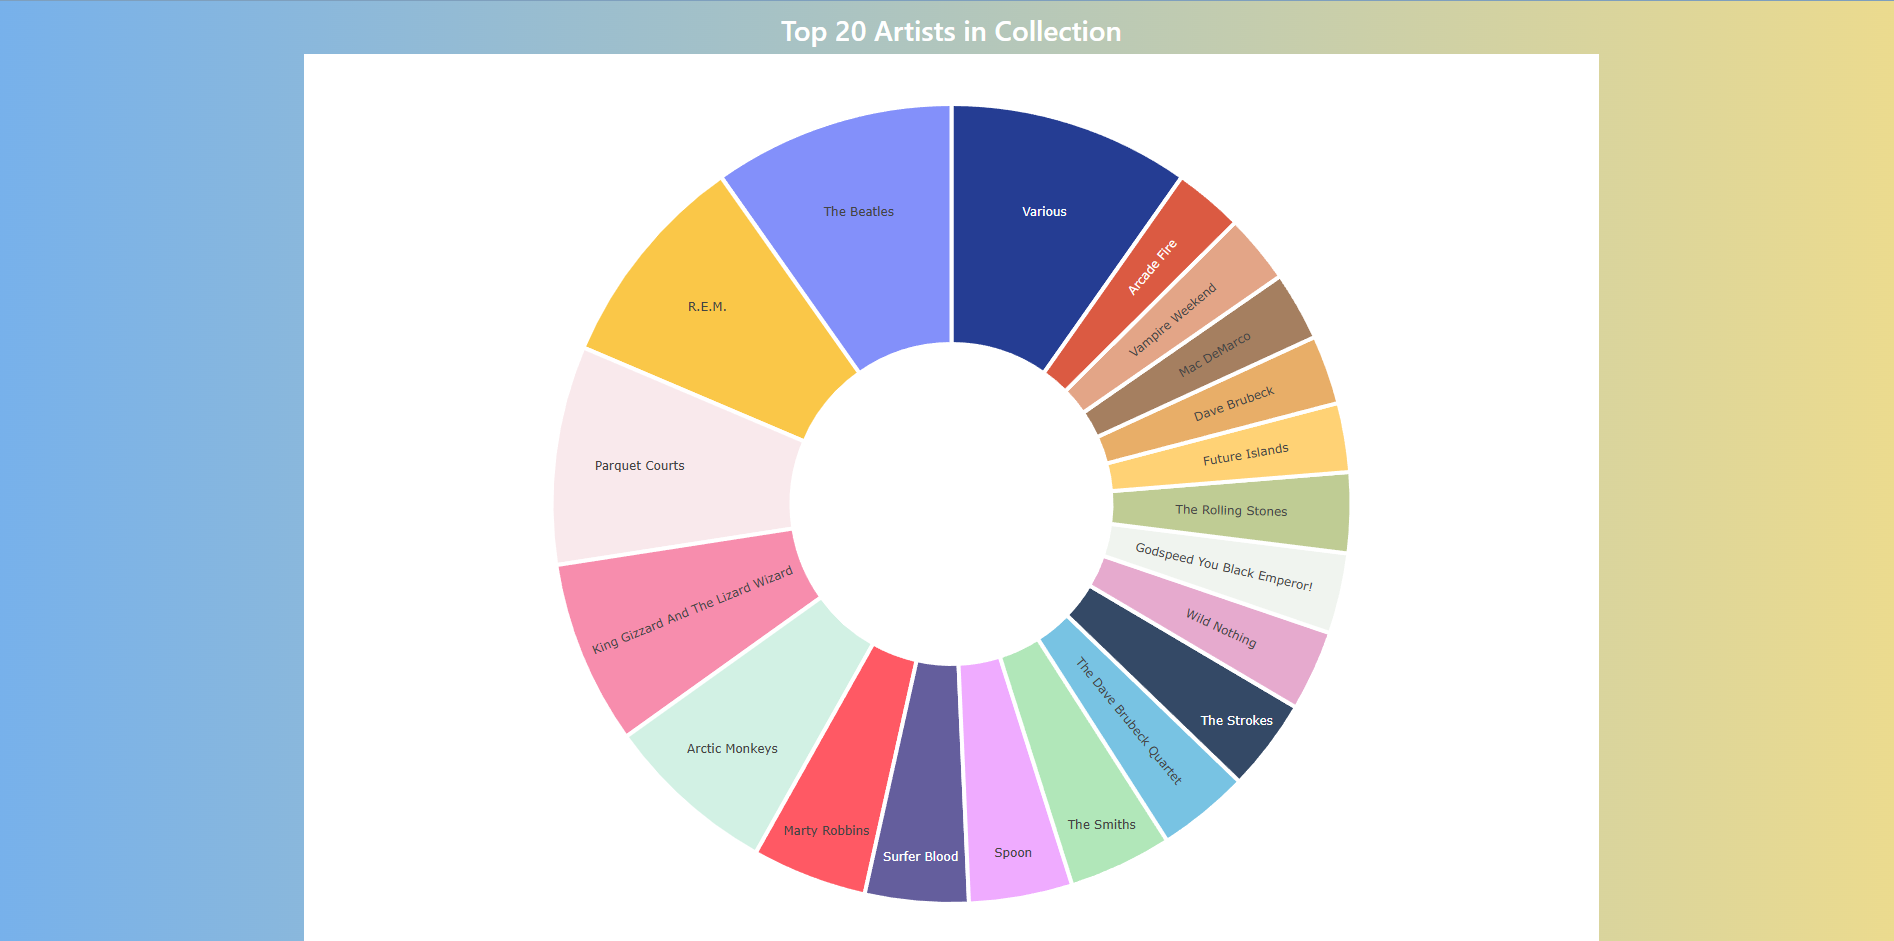
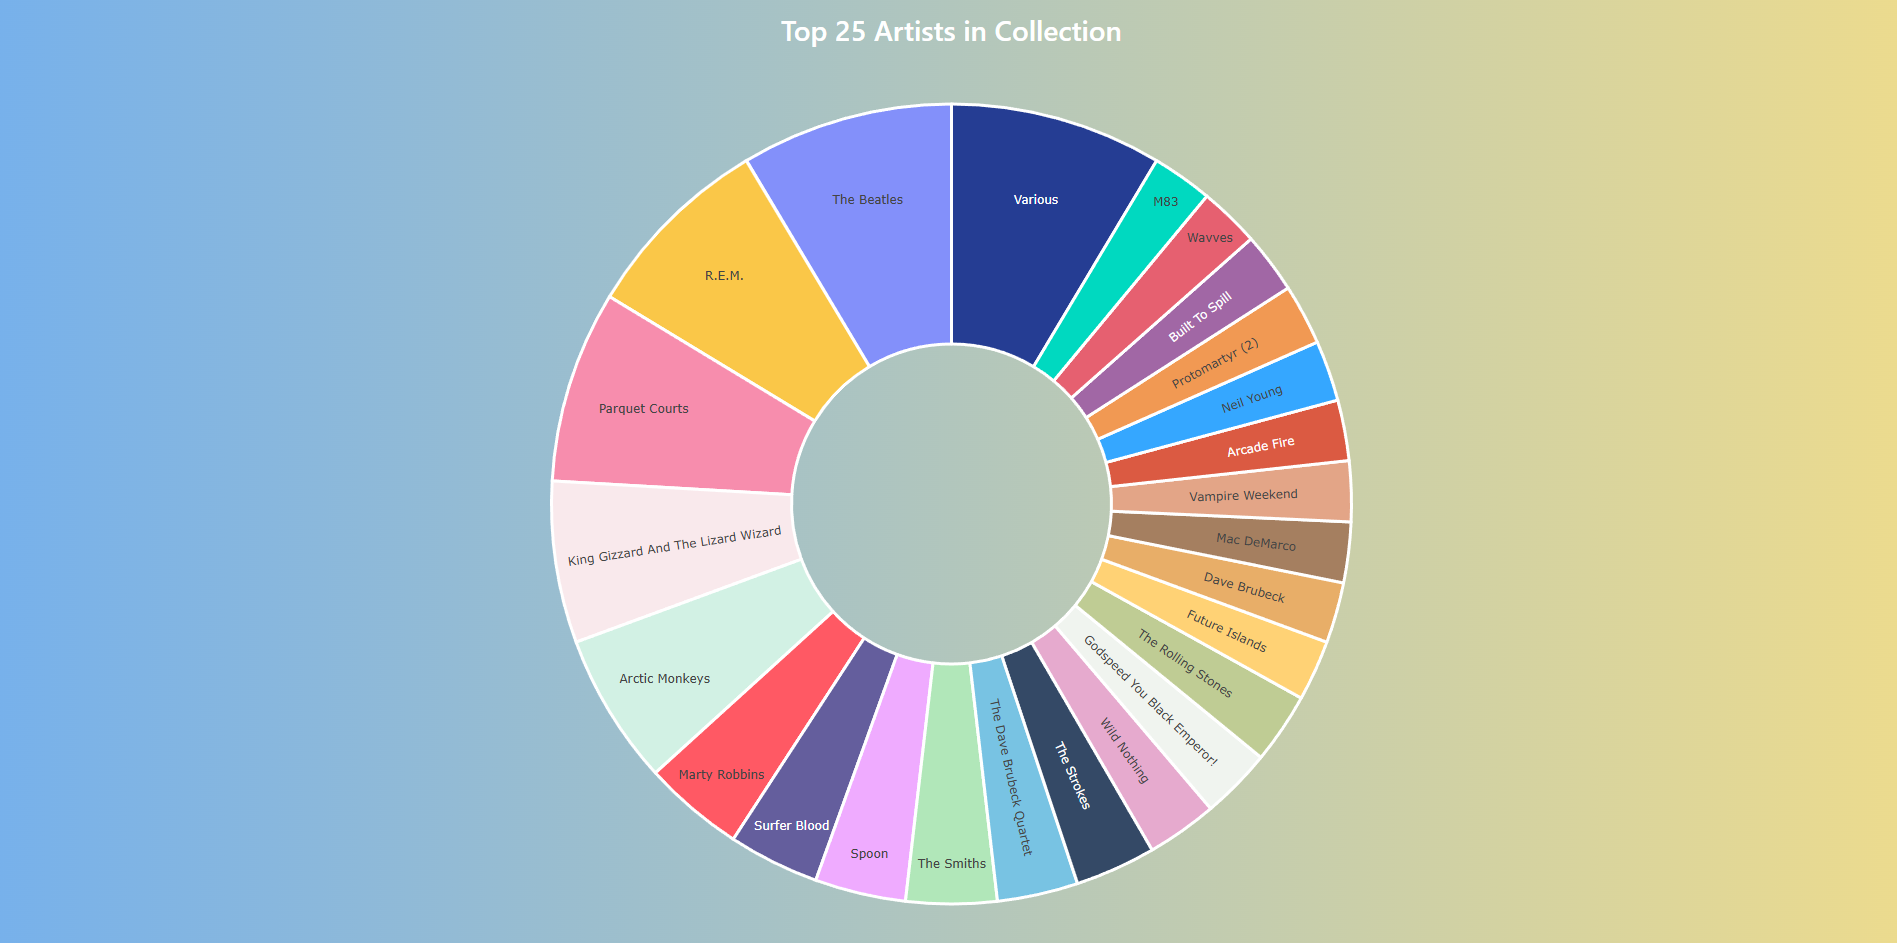
made backgrounds transparent

diff --git a/records.js b/records.js
@@ -20,13 +20,13 @@ d3.json("recordcollection.json").then(data => {
         updateCharts(selectedArtist, data);
     });
 
-    // Distribution Chart for Top 10 Artists in Collection
+    // Distribution Chart for Top 25 Artists in Collection
     updateArtistDistribution(data);
 });
 
 // Function to update charts based on selected artist
-const pallette = ["#253D93", "#8390FA", "#FAC748", "#F9E9EC", "#F78DAD", "D2F1E4", "FF5964", "645E9D", "EFABFF", "B1E7B9", "78C3E3", "344966", 
-                   "E6AACE", "F0F4EF", "BFCC94", "FFD275", "E8AE68", "A57F60", "E3A587", "DB5A42"];
+const pallette = ["#253D93", "#8390FA", "#FAC748", "#F78DAD", "#F9E9EC", "D2F1E4", "FF5964", "645E9D", "EFABFF", "B1E7B9", "78C3E3", "344966", 
+                   "E6AACE", "F0F4EF", "BFCC94", "FFD275", "E8AE68", "A57F60", "E3A587", "DB5A42", "35A7FF", "F19953", "A167A5", "E66070", "00D9C0"];
 function updateCharts(artist, data) {
     const artistRecords = data
         .filter(d => d.Artist === artist)
@@ -42,23 +42,33 @@ const scatterData = [{
     x: titles,
     y: releaseYears,
     mode: "markers",
-    marker: { color: pallette, size: 15 }
+    hoverinfo: 'y',
+    marker: { color: pallette, size: 25 }
 }];
 const scatterLayout = {
-    width: 1295, // Set a fixed width
-    height: 700, // Set a fixed height
+    width: 1295,
+    height: 700,
+    paper_bgcolor: 'rgba(0,0,0,0)', 
+    plot_bgcolor: 'rgba(0,0,0,0)', 
     margin: {
-        b: 150, // Increase bottom margin for x-axis labels
+        b: 150,
         t: 50,
         l: 100,
         r: 100
     },
     xaxis: {
-        automargin: true // Prevent label cut-offs
+        color: 'white',
+        automargin: true
     },
     yaxis: { 
-        title: "Release Year",
-        tickformat: 'd' // Display y-axis values as integers
+        title: {
+            text: "Release Year",
+            standoff: 20
+        },
+        color: 'white',
+        tickformat: 'd',
+        gridcolor: 'rgba(255, 255, 255, 0.2)',
+        tickfont: { color: 'white' },
     }
 };
 Plotly.newPlot("bar", scatterData, scatterLayout);
@@ -68,9 +78,9 @@ function updateArtistDistribution(data) {
     // Calculate frequency of each artist in the collection and sort by count
     const artistCounts = d3.rollups(data, v => v.length, d => d.Artist)
         .sort((a, b) => b[1] - a[1]) // Sort by count in descending order
-        .slice(0, 20); // Take the top 20 artists
+        .slice(0, 25); // Take the top 25 artists
 
-    // Separate artist names and counts for top 20
+    // Separate artist names and counts for top 25
     const artistNames = artistCounts.map(d => d[0]);
     const counts = artistCounts.map(d => d[1]);
 
@@ -84,7 +94,7 @@ function updateArtistDistribution(data) {
             colors: pallette,
             line: {
                 color: 'white',
-                width: 4 
+                width: 3 
             }
         },
         textinfo: "label",
@@ -101,12 +111,19 @@ function updateArtistDistribution(data) {
     const distributionLayout = {
         width: 1295,
         height: 900,
+        paper_bgcolor: 'rgba(0,0,0,0)', 
+        plot_bgcolor: 'rgba(0,0,0,0)', 
         showlegend: false,
+        hoverlabel: {
+            font: {
+                size: 25
+            }
+        },
         margin: {
-            l: 50, // left margin
-            r: 50, // right margin
-            t: 50, // top margin
-            b: 50  // bottom margin
+            l: 50,
+            r: 50,
+            t: 50,
+            b: 50  
         },
     };
     Plotly.newPlot("distribution", distributionData, distributionLayout);

diff --git a/index.html b/index.html
@@ -43,7 +43,7 @@
       border-radius: 20px;
       box-shadow: 0 4px 8px rgba(0, 0, 0, 0.2);
     }
-   
+
   </style>
 
 </head>
@@ -66,7 +66,7 @@
     <div class="row">
       <div class="col-md-12">
         <div class="form-group">
-          <label for="artistDropdown">Select Artist:</label>
+          <label for="artistDropdown" style="color: white;">Select Artist:</label>
           <select id="artistDropdown" class="form-control"></select>
         </div>
       </div>
@@ -83,7 +83,7 @@
     <!-- Pie Chart Section for Artist Distribution -->
     <div class="row mt-4">
       <div class="col-md-12">
-        <h3 class="text-center">Top 20 Artists in Collection</h3>
+        <h3 class="text-center">Top 25 Artists in Collection</h3>
         <div id="distribution"></div>
       </div>
     </div>
